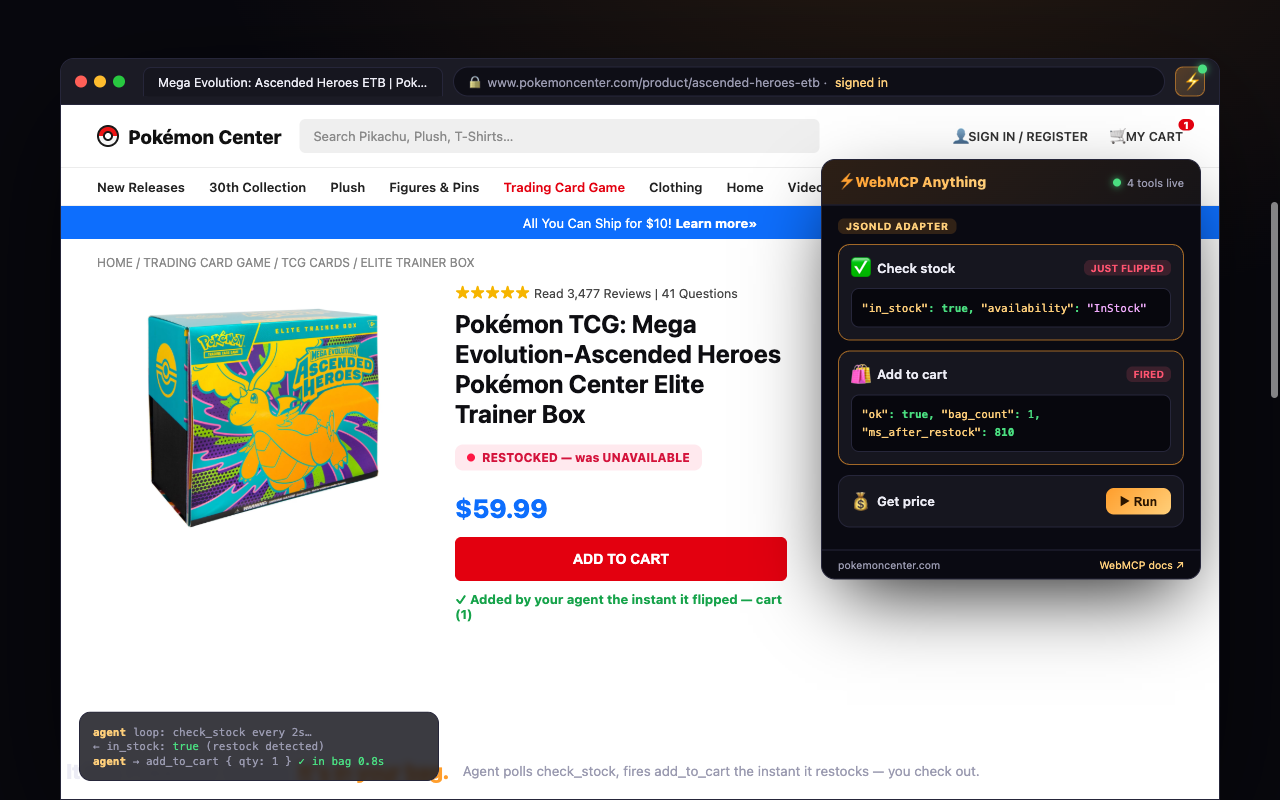
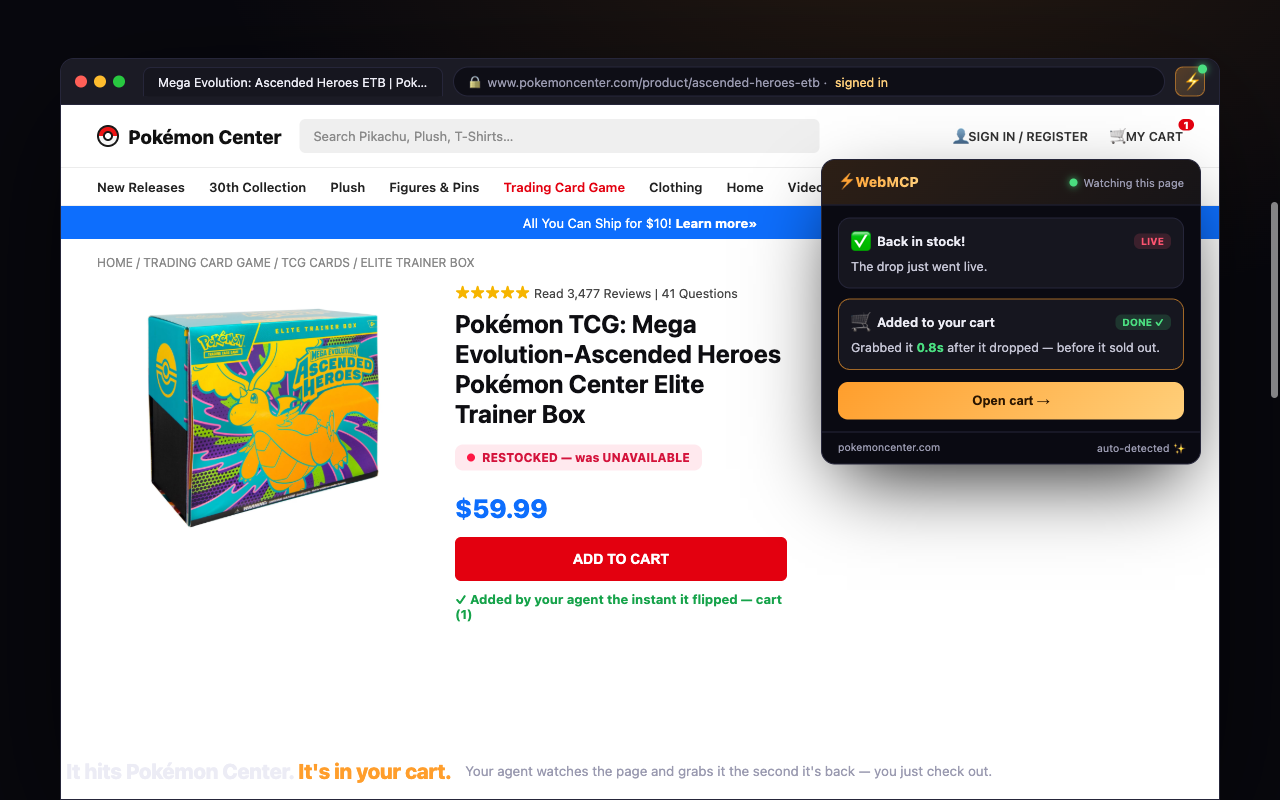
feat(store): simplify screenshots for normies + Vancouver
The popups looked like a dev tool (raw JSON results + a terminal agent
log) — scary to mainstream shoppers. Stripped all of it:
- Popups now plain English: "Back in stock!" → "Added to your cart —
  grabbed it 0.8s after it dropped" → "Open cart →". No JSON, no
  check_stock/add_to_cart code, no adapter jargon ("auto-detected ✨").
- Removed the terminal agent-loop strip entirely.
- Captions de-jargoned (no check_stock/add_to_cart references).
- Walmart location Edmonton → Vancouver (V6B 1A1).

Same real store chrome, real products, real MSRP prices.

diff --git a/launch/store-assets/scenes.html b/launch/store-assets/scenes.html
@@ -48,6 +48,11 @@
   .result .k{color:var(--accent2)} .result .s{color:#f0abfc} .result .ok{color:var(--green); font-weight:700}
   .pop-foot { border-top:1px solid var(--border); padding:8px 16px; font-size:10.5px; color:var(--muted); display:flex; justify-content:space-between; }
   .pop-foot a{color:var(--accent2); text-decoration:none}
+  /* simple / friendly popup (no code, no JSON) */
+  .friendly { color:#c4c4d4; font-size:12.5px; margin-top:6px; line-height:1.45; }
+  .friendly b { color:var(--green); }
+  .done { background:rgba(74,222,128,.16); color:var(--green); font-weight:700; font-size:10px; padding:2px 7px; border-radius:6px; }
+  .pop-cta { width:100%; margin-top:2px; padding:11px; text-align:center; background:linear-gradient(135deg,var(--accent),var(--accent2)); color:#2a1500; border:none; border-radius:10px; font-weight:800; font-size:13px; cursor:pointer; }
 
   /* agent loop strip — shows the REAL tools firing (honest) */
   .agentbar { position:absolute; left:18px; bottom:18px; width:360px; background:#0a0a12cc; backdrop-filter:blur(4px);
@@ -177,29 +182,23 @@
         </div>
       </div>
       <div class="popup">
-        <div class="pop-head"><div class="pop-logo">⚡ WebMCP Anything</div><div class="pop-status"><span class="dot"></span>4 tools live</div></div>
+        <div class="pop-head"><div class="pop-logo">⚡ WebMCP</div><div class="pop-status"><span class="dot"></span>Watching this page</div></div>
         <div class="pop-main">
-          <div class="atag">jsonld adapter</div>
-          <div class="tool hot">
-            <div class="tool-head"><span class="ic">✅</span><div class="lab">Check stock</div><span class="live-badge">JUST FLIPPED</span></div>
-            <div class="result"><span class="k">"in_stock"</span>: <span class="ok">true</span>, <span class="k">"availability"</span>: <span class="s">"InStock"</span></div>
+          <div class="tool">
+            <div class="tool-head"><span class="ic">✅</span><div class="lab">Back in stock!</div><span class="live-badge">LIVE</span></div>
+            <div class="friendly">The drop just went live.</div>
           </div>
           <div class="tool hot">
-            <div class="tool-head"><span class="ic">🛍</span><div class="lab">Add to cart</div><span class="live-badge">FIRED</span></div>
-            <div class="result"><span class="k">"ok"</span>: <span class="ok">true</span>, <span class="k">"bag_count"</span>: 1, <span class="k">"ms_after_restock"</span>: <span class="ok">810</span></div>
+            <div class="tool-head"><span class="ic">🛒</span><div class="lab">Added to your cart</div><span class="done">DONE ✓</span></div>
+            <div class="friendly">Grabbed it <b>0.8s</b> after it dropped — before it sold out.</div>
           </div>
-          <div class="tool"><div class="tool-head"><span class="ic">💰</span><div class="lab">Get price</div><button class="run">▶ Run</button></div></div>
+          <button class="pop-cta">Open cart →</button>
         </div>
-        <div class="pop-foot"><span>pokemoncenter.com</span><a>WebMCP docs ↗</a></div>
-      </div>
-      <div class="agentbar">
-        <div class="ln"><span class="who">agent</span> <span class="t">loop: check_stock every 2s…</span></div>
-        <div class="ln"><span class="t">← in_stock: </span><span class="ok">true</span> <span class="t">(restock detected)</span></div>
-        <div class="ln"><span class="who">agent</span> <span class="t">→ add_to_cart { qty: 1 } </span><span class="ok">✓ in bag 0.8s</span></div>
+        <div class="pop-foot"><span>pokemoncenter.com</span><span>auto-detected ✨</span></div>
       </div>
     </div>
   </div>
-  <div class="cap"><div class="big">It hits Pokémon Center. <span class="am">It's in your bag.</span></div><div class="sm">Agent polls check_stock, fires add_to_cart the instant it restocks — you check out.</div></div>
+  <div class="cap"><div class="big">It hits Pokémon Center. <span class="am">It's in your cart.</span></div><div class="sm">Your agent watches the page and grabs it the second it's back — you just check out.</div></div>
 </div>
 
 <!-- ============ 3) WALMART ============ -->
@@ -215,7 +214,7 @@
       <div class="pg" style="padding-top:0">
         <div style="display:flex;align-items:center;gap:14px;padding:11px 24px;margin:0 -36px;background:#0071dc">
           <span style="color:#ffc220;font-size:26px;font-weight:900">✸</span>
-          <div style="background:#004f9a;border-radius:22px;padding:5px 14px;color:#fff;font-size:11px;line-height:1.2;max-width:230px"><b>How do you want your items?</b><span style="display:block;opacity:.85;font-size:10.5px">Edmonton, T5T 9Z0 · W. EDMONTON…</span></div>
+          <div style="background:#004f9a;border-radius:22px;padding:5px 14px;color:#fff;font-size:11px;line-height:1.2;max-width:230px"><b>How do you want your items?</b><span style="display:block;opacity:.85;font-size:10.5px">Vancouver, V6B 1A1 · Grandview Hwy…</span></div>
           <div style="flex:1;background:#fff;border-radius:22px;height:36px;display:flex;align-items:center;padding:0 16px;color:#8a8a8a;font-size:13px">Search everything at Walmart online and in store</div>
           <div style="display:flex;align-items:center;gap:18px;color:#fff;font-size:12px">
             <span>🌐 English</span><span>♡ Reorder</span><span>👤 Sign In</span>
@@ -238,29 +237,23 @@
         </div>
       </div>
       <div class="popup">
-        <div class="pop-head"><div class="pop-logo">⚡ WebMCP Anything</div><div class="pop-status"><span class="dot"></span>4 tools live</div></div>
+        <div class="pop-head"><div class="pop-logo">⚡ WebMCP</div><div class="pop-status"><span class="dot"></span>Watching this page</div></div>
         <div class="pop-main">
-          <div class="atag">jsonld adapter</div>
-          <div class="tool hot">
-            <div class="tool-head"><span class="ic">✅</span><div class="lab">Check stock</div><span class="live-badge">JUST FLIPPED</span></div>
-            <div class="result"><span class="k">"in_stock"</span>: <span class="ok">true</span>, <span class="k">"availability"</span>: <span class="s">"InStock"</span></div>
+          <div class="tool">
+            <div class="tool-head"><span class="ic">✅</span><div class="lab">Back in stock!</div><span class="live-badge">LIVE</span></div>
+            <div class="friendly">The restock just hit.</div>
           </div>
           <div class="tool hot">
-            <div class="tool-head"><span class="ic">🛒</span><div class="lab">Add to cart</div><span class="live-badge">FIRED</span></div>
-            <div class="result"><span class="k">"ok"</span>: <span class="ok">true</span>, <span class="k">"cart_count"</span>: 1, <span class="k">"ms_after_restock"</span>: <span class="ok">760</span></div>
+            <div class="tool-head"><span class="ic">🛒</span><div class="lab">Added to your cart</div><span class="done">DONE ✓</span></div>
+            <div class="friendly">Grabbed it <b>under a second</b> after it dropped.</div>
           </div>
-          <div class="tool"><div class="tool-head"><span class="ic">💰</span><div class="lab">Get price</div><button class="run">▶ Run</button></div></div>
+          <button class="pop-cta">Open cart →</button>
         </div>
-        <div class="pop-foot"><span>walmart.com</span><a>WebMCP docs ↗</a></div>
-      </div>
-      <div class="agentbar">
-        <div class="ln"><span class="who">agent</span> <span class="t">loop: check_stock every 2s…</span></div>
-        <div class="ln"><span class="t">← in_stock: </span><span class="ok">true</span> <span class="t">(restock detected)</span></div>
-        <div class="ln"><span class="who">agent</span> <span class="t">→ add_to_cart { qty: 1 } </span><span class="ok">✓ in cart 0.8s</span></div>
+        <div class="pop-foot"><span>walmart.com</span><span>auto-detected ✨</span></div>
       </div>
     </div>
   </div>
-  <div class="cap"><div class="big">Restocks at Walmart? <span class="am">In your cart in under a second.</span></div><div class="sm">Your agent watches the listing and fires add_to_cart the instant it flips.</div></div>
+  <div class="cap"><div class="big">Restocks at Walmart? <span class="am">In your cart in under a second.</span></div><div class="sm">Your agent watches the listing and grabs it the moment it's back.</div></div>
 </div>
 
 <!-- ============ 4) SAM'S CLUB ============ -->
@@ -304,25 +297,19 @@
         </div>
       </div>
       <div class="popup">
-        <div class="pop-head"><div class="pop-logo">⚡ WebMCP Anything</div><div class="pop-status"><span class="dot"></span>4 tools live</div></div>
+        <div class="pop-head"><div class="pop-logo">⚡ WebMCP</div><div class="pop-status"><span class="dot"></span>Watching this page</div></div>
         <div class="pop-main">
-          <div class="atag">jsonld adapter</div>
-          <div class="tool hot">
-            <div class="tool-head"><span class="ic">✅</span><div class="lab">Check stock</div><span class="live-badge">JUST FLIPPED</span></div>
-            <div class="result"><span class="k">"in_stock"</span>: <span class="ok">true</span>, <span class="k">"fulfillment"</span>: <span class="s">"pickup"</span></div>
+          <div class="tool">
+            <div class="tool-head"><span class="ic">✅</span><div class="lab">Back in stock!</div><span class="live-badge">LIVE</span></div>
+            <div class="friendly">Pickup available near you.</div>
           </div>
           <div class="tool hot">
-            <div class="tool-head"><span class="ic">🛒</span><div class="lab">Add to cart</div><span class="live-badge">FIRED</span></div>
-            <div class="result"><span class="k">"ok"</span>: <span class="ok">true</span>, <span class="k">"cart_count"</span>: 1, <span class="k">"ms_after_restock"</span>: <span class="ok">690</span></div>
+            <div class="tool-head"><span class="ic">🛒</span><div class="lab">Added to your cart</div><span class="done">DONE ✓</span></div>
+            <div class="friendly">Beat the <b>50+ people</b> who had it in their carts.</div>
           </div>
-          <div class="tool"><div class="tool-head"><span class="ic">💰</span><div class="lab">Get price</div><button class="run">▶ Run</button></div></div>
+          <button class="pop-cta">Open cart →</button>
         </div>
-        <div class="pop-foot"><span>samsclub.com</span><a>WebMCP docs ↗</a></div>
-      </div>
-      <div class="agentbar">
-        <div class="ln"><span class="who">agent</span> <span class="t">loop: check_stock every 2s…</span></div>
-        <div class="ln"><span class="t">← in_stock: </span><span class="ok">true</span> <span class="t">· pickup available</span></div>
-        <div class="ln"><span class="who">agent</span> <span class="t">→ add_to_cart { qty: 1 } </span><span class="ok">✓ in cart 0.7s</span></div>
+        <div class="pop-foot"><span>samsclub.com</span><span>auto-detected ✨</span></div>
       </div>
     </div>
   </div>
